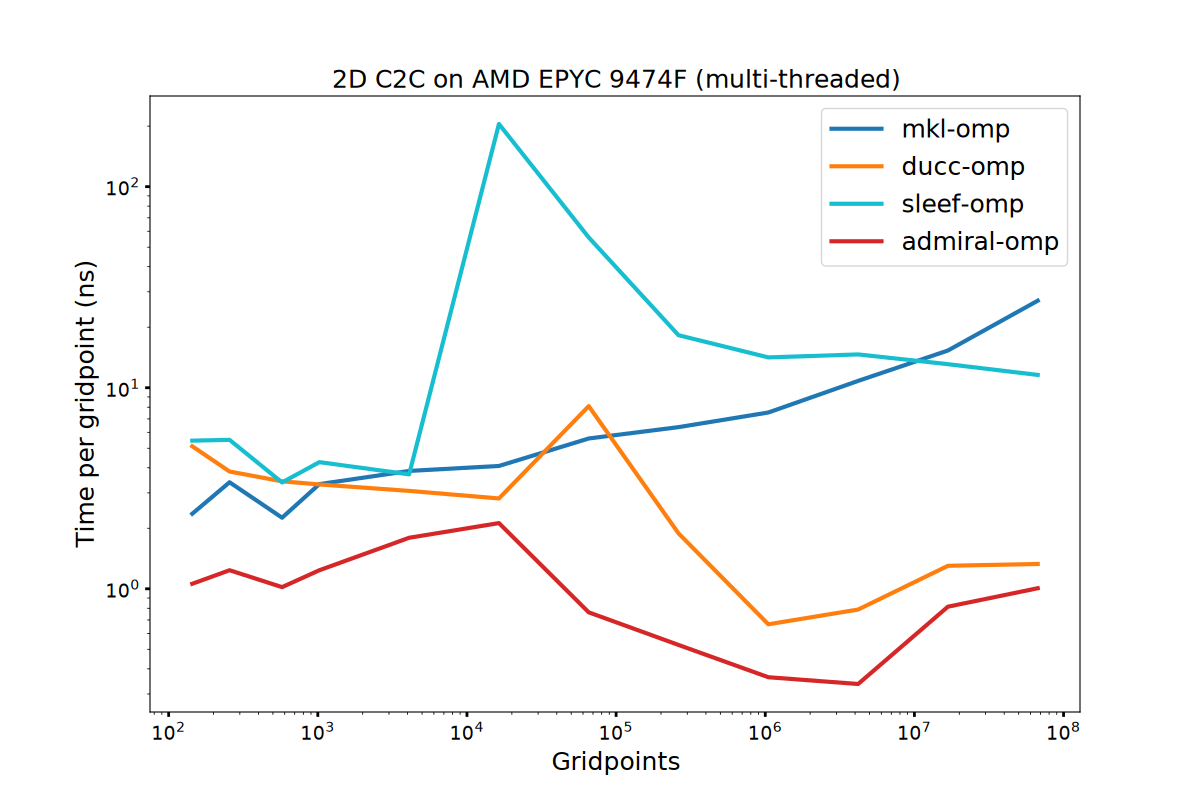
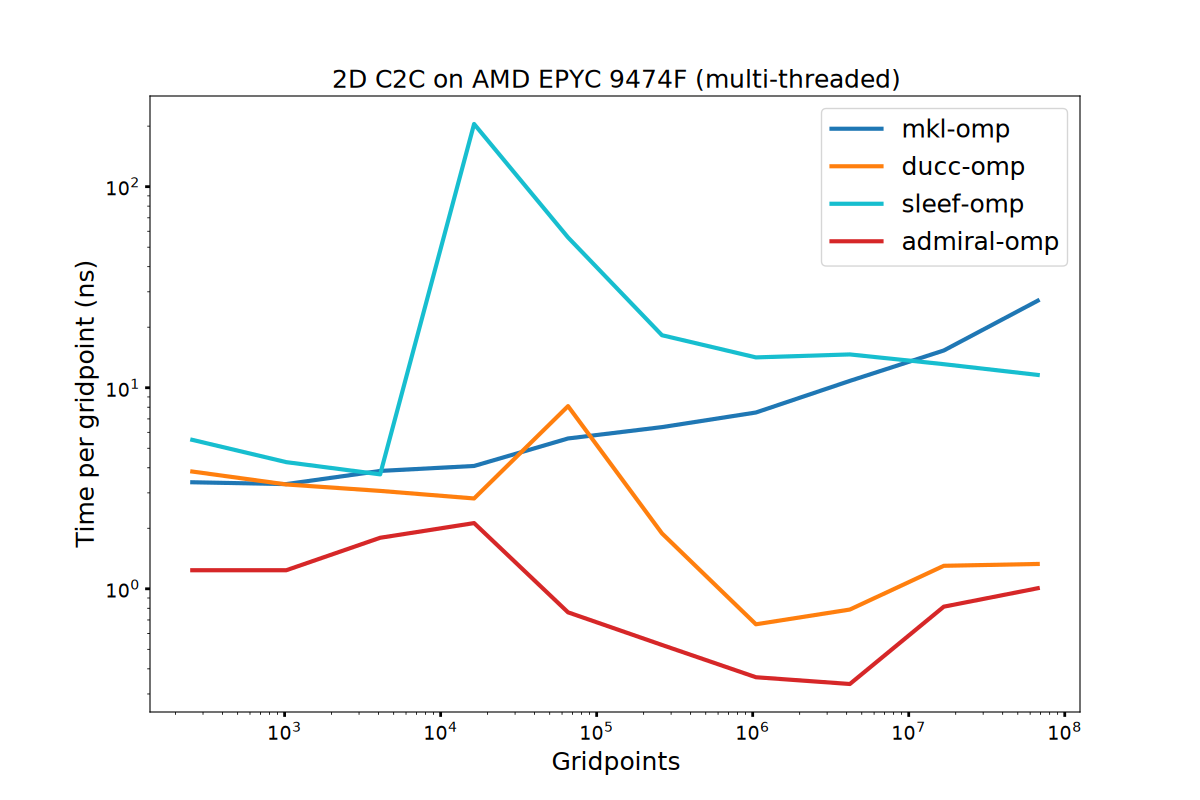
fix: charts carry one radix family, so a line cannot fork in two
The granule cells 12 and 24 joined the sweep grid at 6d1ad6f for the standings
table. Sorted by gridpoint count they interleave with the power-of-two family
(144, 256, 576, 1024, ...) and cost less per gridpoint than their neighbours, so
each polyline alternated between two levels and read as two curves per library:

  grid       144(12^2)  256(16^2)  576(24^2)  1024(32^2)   [2-D f64, rome, ns/pt]
  mkl             4.38       6.21       4.12        6.26
  admiral         1.67       2.31       1.85        3.27
  fftw3           1.67       1.67       3.45        1.94

A time-per-gridpoint scaling curve holds only within one radix family, so
cells() keeps the power-of-two cells and drops the rest. The granule cells stay
in geomean_table.py, which is the consumer they were added for. cells() also
keeps the sort from e5957b9, so a future out-of-order grid cannot fork a line
again.

No data change: same sweep-2026-09-16-1848-admb2bf2d3 jsons as 711a8c9.

Controls: the 24 2-D/3-D PNGs change and every 1-D PNG stays byte-identical,
because 1-D carries no granule cell — the edit drops cells and never rescales.
The dropped set across all 39 jsons is exactly (dim, prec, n) in
{2,3} x {f32,f64} x {12,24}; the sparsest surviving series is 3-D f32 at 3
points.

Assisted-by: Claude Opus 5 <noreply@anthropic.com>

diff --git a/fi/collect_results.py b/fi/collect_results.py
@@ -66,6 +66,12 @@ for arch in arches:
 
         aggregate_data[arch][implementation] = params
 
+def cells(meas, dim: int, prec: str):
+    """Cells of one (dim, prec) family, ascending in size. Non-power-of-two granule cells
+    stay out of the charts: they cost less per gridpoint than their power-of-two neighbours,
+    so one polyline over both families zigzags between two levels."""
+    return sorted(p for p in meas if p[1:3] == (dim, prec) and not p[0] & (p[0] - 1))
+
 def plot_st_dim(dim: int, prec: str = 'f64'):
     # f32 is a separate figure per (dim, arch): {dim}d_c2c_st_{arch}_f32.png. A dir whose
     # ST arms carry zero f32 cells (every pre-spine run) emits no f32 figure at all, never
@@ -76,7 +82,7 @@ def plot_st_dim(dim: int, prec: str = 'f64'):
         for impl, meas in aggregate_data[arch].items():
             if '-omp' in impl:
                 continue
-            params = list(zip(*sorted(filter(lambda p: p[1:3] == (dim, prec), meas))))
+            params = list(zip(*cells(meas, dim, prec)))
             if params:
                 series.append((impl, params))
         if prec != 'f64' and not series:
@@ -105,7 +111,7 @@ def plot_mt_dim(dim: int, prec: str = 'f64'):
         for impl, meas in aggregate_data[arch].items():
             if '-omp' not in impl:
                 continue
-            params = list(zip(*sorted(filter(lambda p: p[1:3] == (dim, prec), meas))))
+            params = list(zip(*cells(meas, dim, prec)))
             if params:
                 series.append((impl, params))
         if prec != 'f64' and not series:
